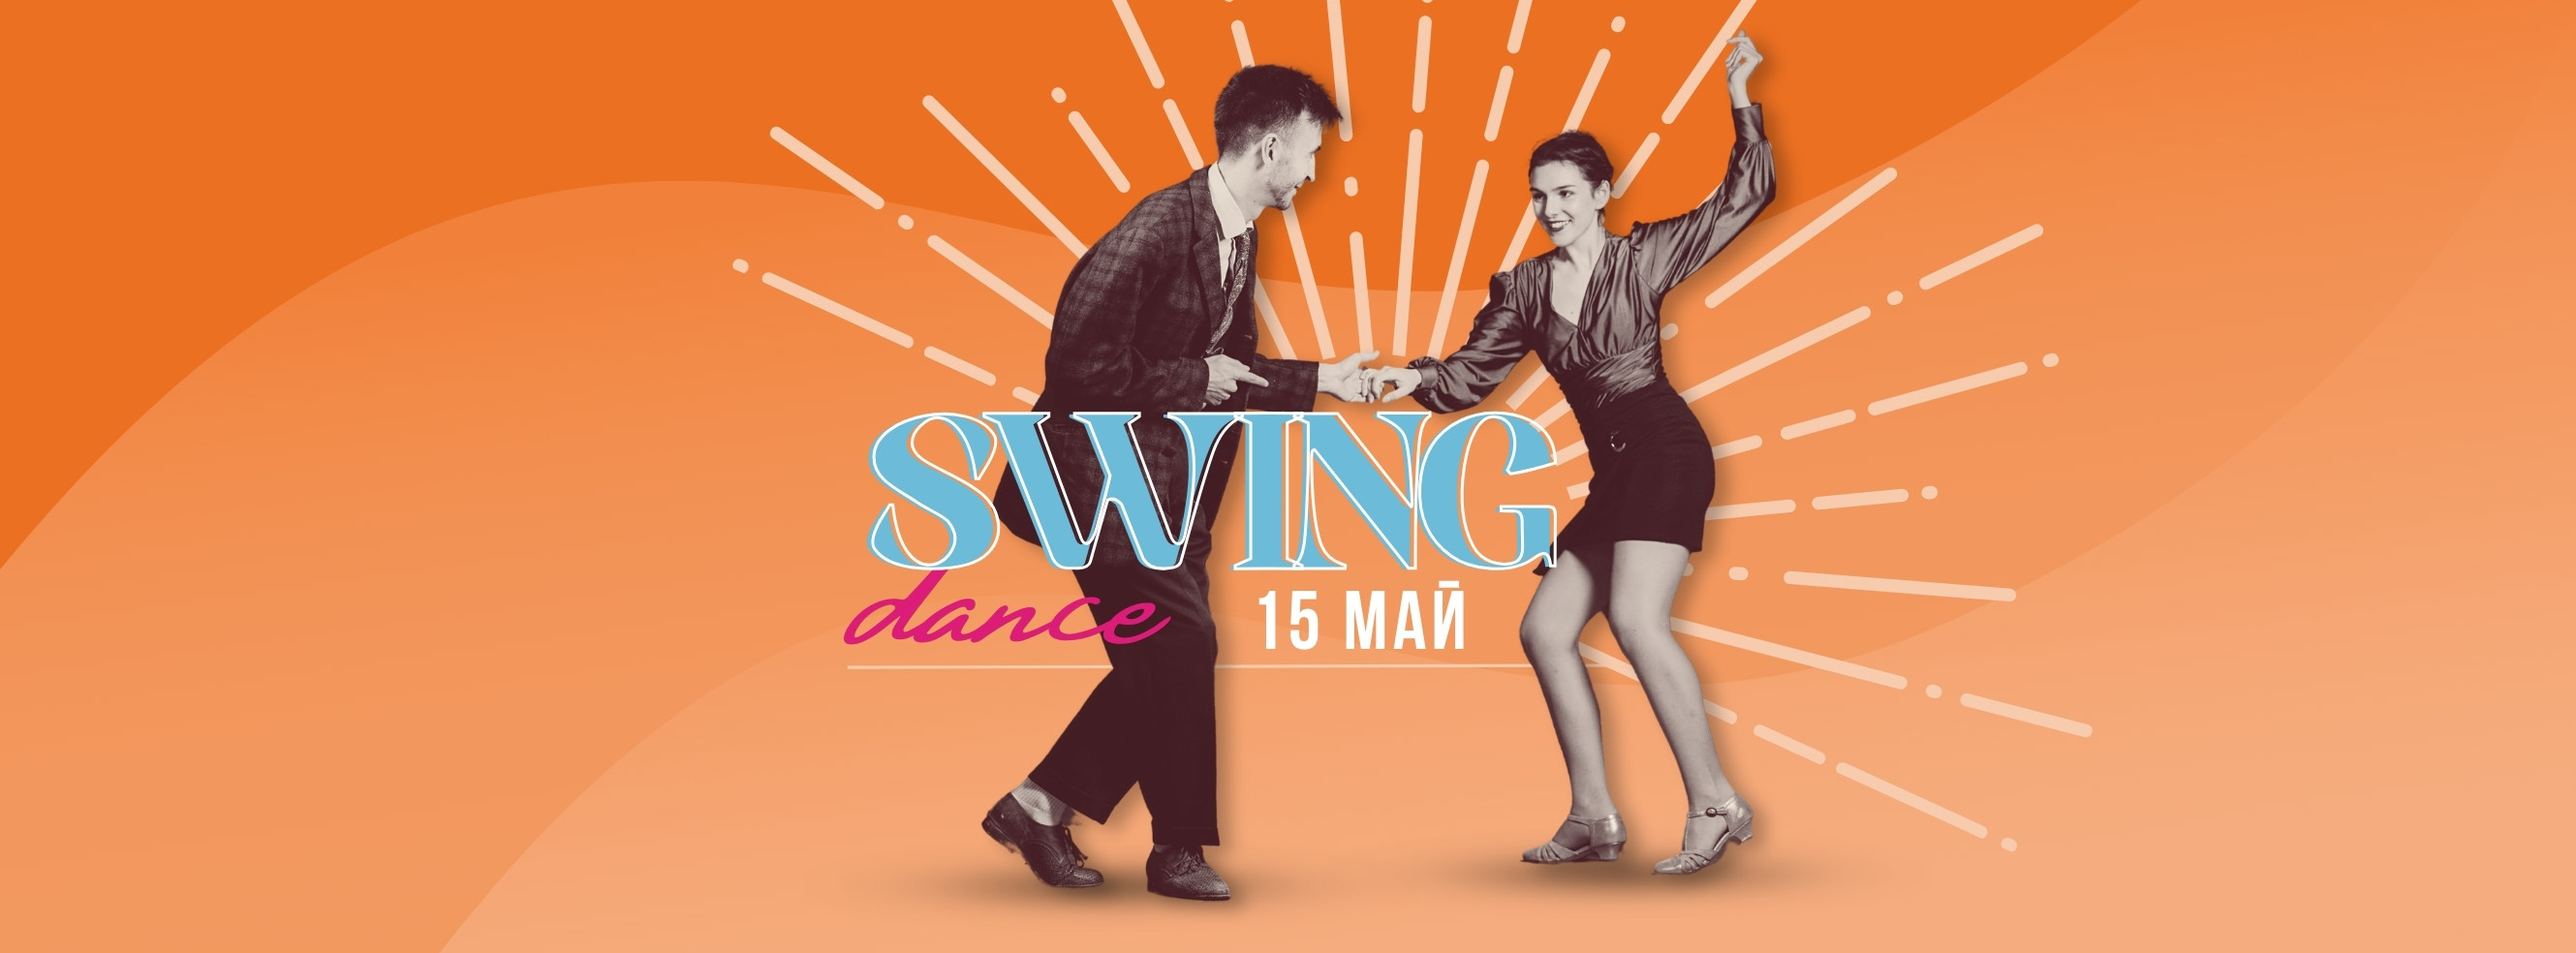
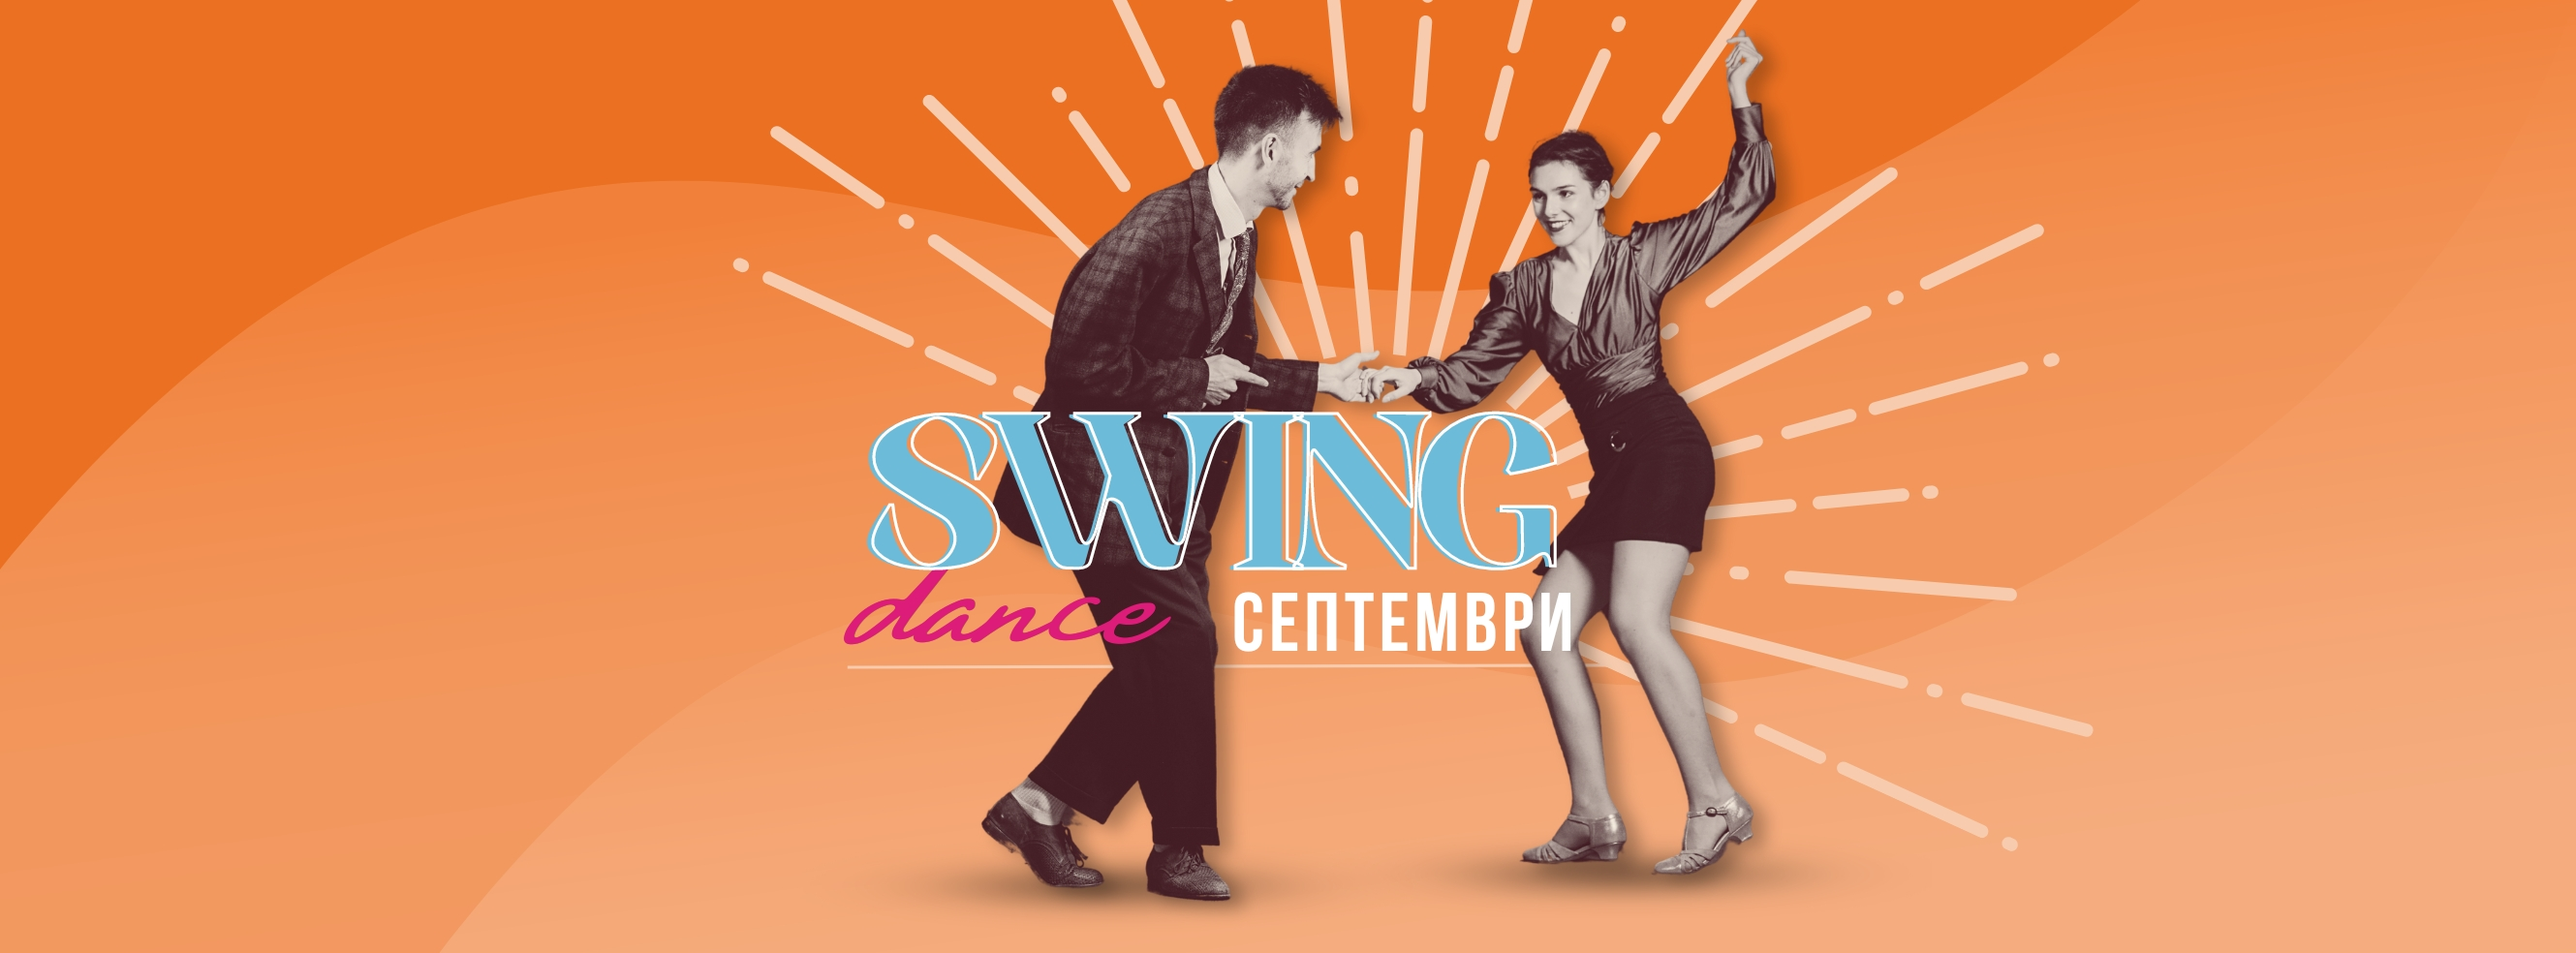
Update with September courses information

Changed region(s): [[0.4682, 0.6098, 0.6243, 0.7012]]

diff --git a/sign-up.html b/sign-up.html
@@ -70,7 +70,7 @@ xmlns:og="http://ogp.me/ns#">
 
     <iframe
         class="google-form"
-        src="https://docs.google.com/forms/d/e/1FAIpQLSdXO06U013wxt5YsQpB7AFX7v1coFC5PFCqJd3SDg0XRyKviw/viewform?embedded=true"
+        src="https://docs.google.com/forms/d/e/1FAIpQLSfxynNfUyEg6JRFnKdYsbOibxU6sV1v8Ni9Bnw8173jMtb-rg/viewform?embedded=true"
         width="100%"
         height="1565px"
         frameborder="0"
